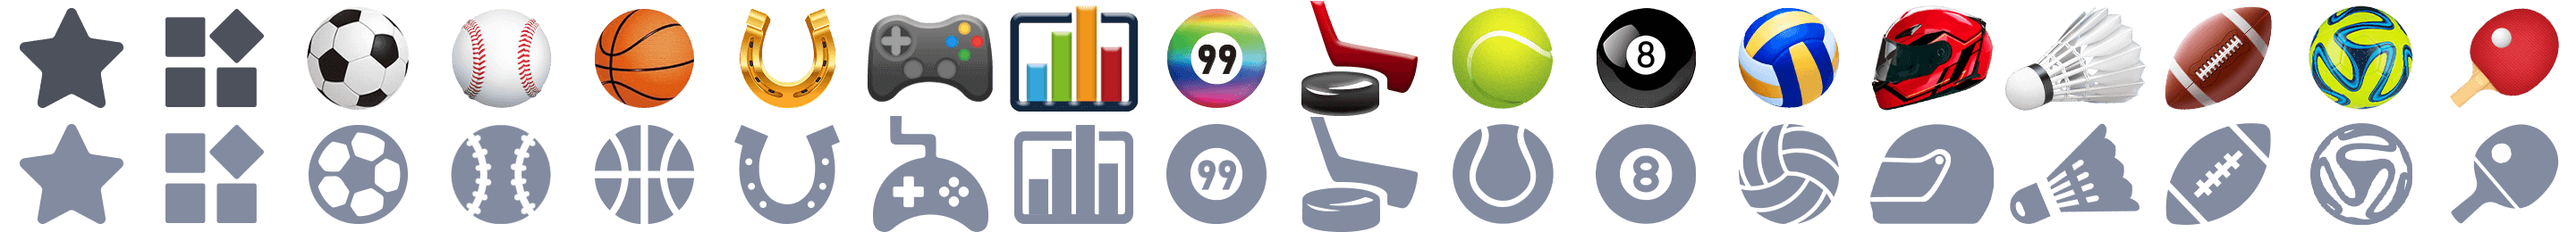
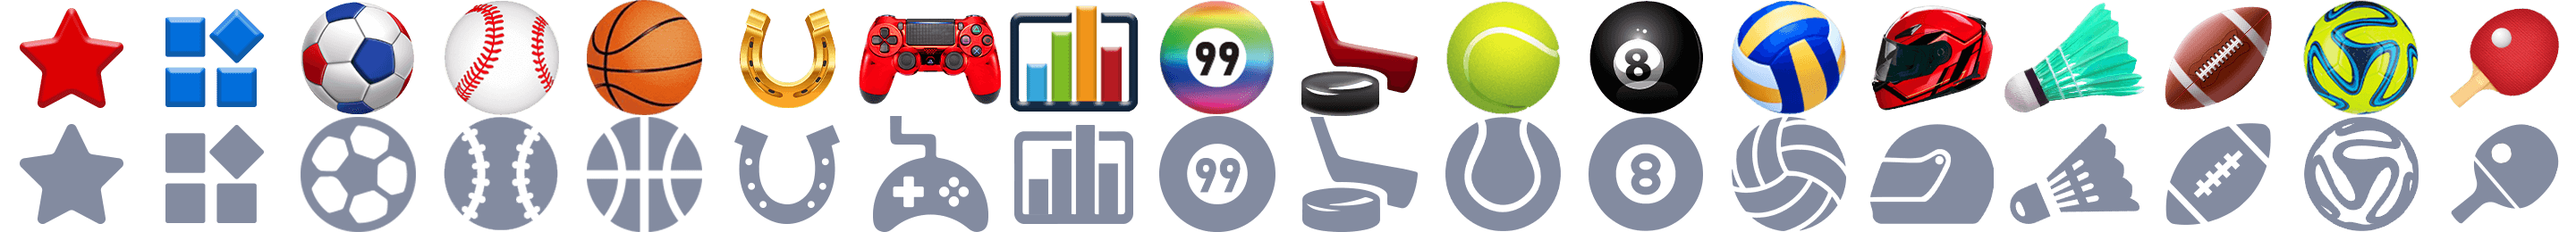
change png

diff --git a/css/main.css b/css/main.css
@@ -1030,7 +1030,7 @@ nav.kinds {
         color: #4d515d; }
         nav.kinds ul li.active span.kind_icon {
           display: inline-block;
-          background: url(../images/market/kinds2.png) no-repeat;
+          background: url(../images/market/kinds.png) no-repeat;
           background-size: 1800%;
           width: 25px;
           height: 22px; }
@@ -1076,7 +1076,7 @@ nav.kinds {
         line-height: 1.7vh; }
         nav.kinds ul li div span.kind_icon {
           display: inline-block;
-          background: url(../images/market/kinds2.png) no-repeat;
+          background: url(../images/market/kinds.png) no-repeat;
           background-size: 1800%;
           width: 25px;
           height: 22px; }

diff --git a/css/market/main_market.scss b/css/market/main_market.scss
@@ -165,7 +165,7 @@ nav {
           span {
             &.kind_icon {
               display: inline-block;
-              background: url(../images/market/kinds2.png) no-repeat;
+              background: url(../images/market/kinds.png) no-repeat;
               background-size: 1800%;
               width: 25px;
               height: 22px;
@@ -233,7 +233,7 @@ nav {
           span {
             &.kind_icon {
               display: inline-block;
-              background: url(../images/market/kinds2.png) no-repeat;
+              background: url(../images/market/kinds.png) no-repeat;
               background-size: 1800%;
               //1950
               // width: 22px;

diff --git a/css/main.scss b/css/main.scss
@@ -13,6 +13,7 @@
 @import "../css/market/market_bill.scss";
 @import "../css/market/market_horse_race.scss";
 @import "../css/market/market_motor_sport.scss";
+@import "../css/market/market_type_ch.scss";
 @import "../css/my/my_set_pw.scss";
 @import "../css//my/my_about.scss";
 @import "../css/my/my_windows.scss";

diff --git a/html/market/today/market_soccer.html b/html/market/today/market_soccer.html
@@ -1157,6 +1157,9 @@
             </div>
         </div>
     </aside>
+    <aside class="type_ch">
+        
+    </aside>
     <script type="text/javascript" src="../../../js/market/market.js"></script>
 
 </body>
